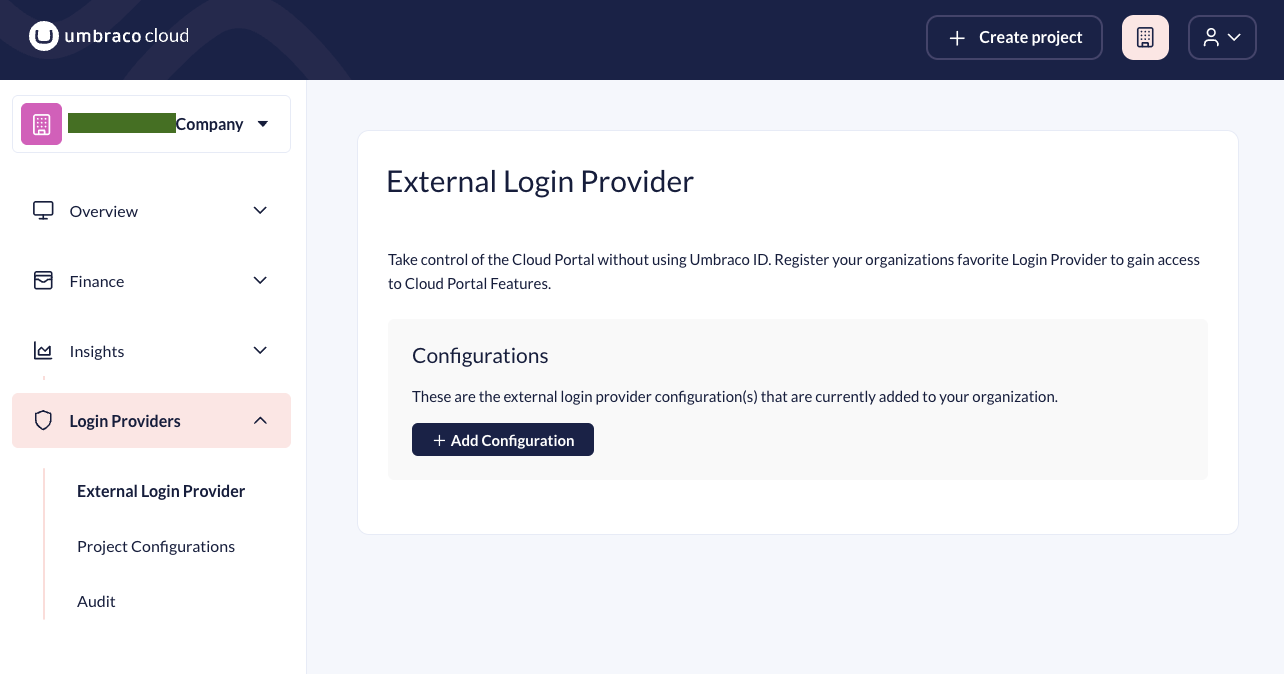
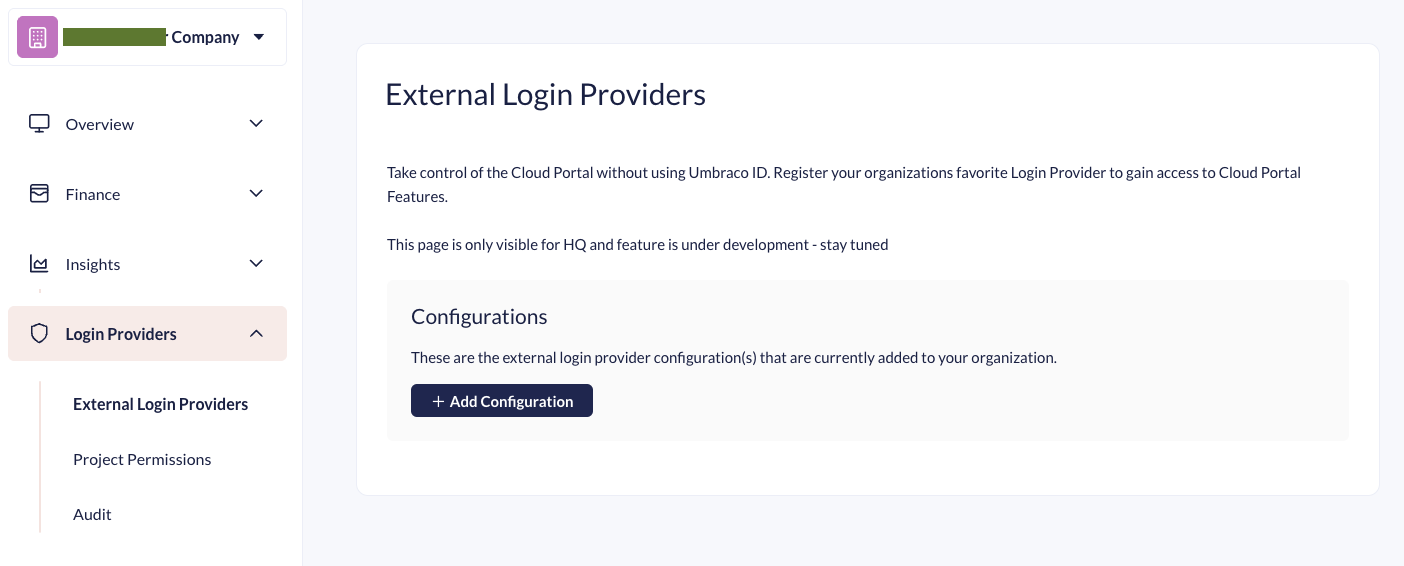
add and update screenshots

diff --git a/umbraco-cloud/begin-your-cloud-journey/the-cloud-portal/login-providers/README.md b/umbraco-cloud/begin-your-cloud-journey/the-cloud-portal/login-providers/README.md
@@ -133,8 +133,9 @@ Keep the configuration for your login provider open, as you will come back to it
 1. Navigate to the **Settings** section.
 2. Scroll down to find the **Application URIs**.
 3. Add the Redirect URI to the **Allowed Callback URLs**.
+4. Also add the Redirect URI to the **Allowed Logout URLs**
 
-![Add the Redirect URI to the Allowed Callback URLs](../../../build-and-customize-your-solution/set-up-your-project/project-settings/images/elp-oauth-4.png)
+![Add the Redirect URI to the Allowed Callback URLs](../../../.gitbook/assets/auth0-portal-callback.png)
 
 13. Add more Redirect URIs if needed.
 {% endtab %}
@@ -198,7 +199,12 @@ Here you will setup access to Projects in the Portal while signed in with your L
 
 You will need to add a Project Permission model per Project and per Login Provider. It is not required to add Project Permissions to all project. Projects without a Project Permissions tied to a Login Provider will not be shown to user logged in with that particular Login Provider.  
 
+<figure><img src="../../../.gitbook/assets/organization-elp-project-permission-screen.png" alt=""><figcaption>Project Permission Screen</figcaption></figure>
+
 When setting up a Project Permission first select a Project in the left side of the screen. Next click on "+ Add" on the Login Provider you want to add a Project Permissions for.
+
+<figure><img src="../../../.gitbook/assets/organization-elp-project-permission-add.png" alt=""><figcaption>Add Project Permission</figcaption></figure>
+
 
 The modal has the following fields:
 - Default Access Level (required)
@@ -207,7 +213,10 @@ The modal has the following fields:
 - Project User Mappings
   - Consists of two fields: "Provider Role Value" and "Project Access Level"
 
-### Default Access Level
+### How to fill in the Project Permissions
+
+**Default Access Level**
+
 Select the level of access you want users signing in with the External Login Provider to get for this Project.
 The dropdown has two possible permissions:
 - Read Only
@@ -216,7 +225,8 @@ The dropdown has two possible permissions:
 This value is meant to be a fallback value and can be overwritten by "Project User Mappings" setting.
 If there are no Mappings available for the user the "No Claim Found Behavior" setting will evaluate if this fallback Permissions is used or "NoAccess".
 
-### No Claim Found Behavior
+**No Claim Found Behavior**
+
 Use this setting for more fine grained control.
 This will allow you to use the Role Claim in you Login Provider to assign Permissions to your users.
  
@@ -227,10 +237,12 @@ The setting has two Settings:
 When `NoAccess` is selected it will block the users access to the Project if they do not have the correct Role assigned. 
 If you decide to use the more lenient option "Use Default Access Level", all users in your Login Provider will automatic get the permission you selected in "Default Access Level". Unless they have a hit on the Project User Mappings.
 
-### User Mapping Claim Name
-Enter the name of your providers default or custom Role claim name. 
+**User Mapping Claim Name**
 
-### Project User Mappings
+Enter the name of your providers default or custom Role claim name. This is if you want to override the one already entered in the Login Provider configuration.
+
+**Project User Mappings**
+
 Here you can set up mapping between the "Provider Role Value" and the Project Permission Level.
 
 ## Audit
@@ -238,6 +250,8 @@ Here you can set up mapping between the "Provider Role Value" and the Project Pe
 Use Audit section to troubleshoot your Login Providers and keep an eye on user Sign-ins.
 
 There is audit log for each Login Provider. Keep in mind that if you remove the Login Provider the audit log will also disappear. 
+
+<figure><img src="../../../.gitbook/assets/organization-elp-audit-screen.png" alt=""><figcaption>Audit page</figcaption></figure>
 
 We are listing the following types of audit:
 

diff --git a/umbraco-cloud/begin-your-cloud-journey/the-cloud-portal/organizations.md b/umbraco-cloud/begin-your-cloud-journey/the-cloud-portal/organizations.md
@@ -138,4 +138,4 @@ Use this section to configure Project Permissions in the Portal when users are s
 
 ### Audit
 
-Here you can keep an eye on all things related to your Login Providers. See User Sign-ins, Changes to Login Provider Configurations and changes to Project Configurations.
+Here you can keep an eye on all things related to your Login Providers. See User Sign-ins, Changes to Login Provider Configurations and changes to Project Permissions.
